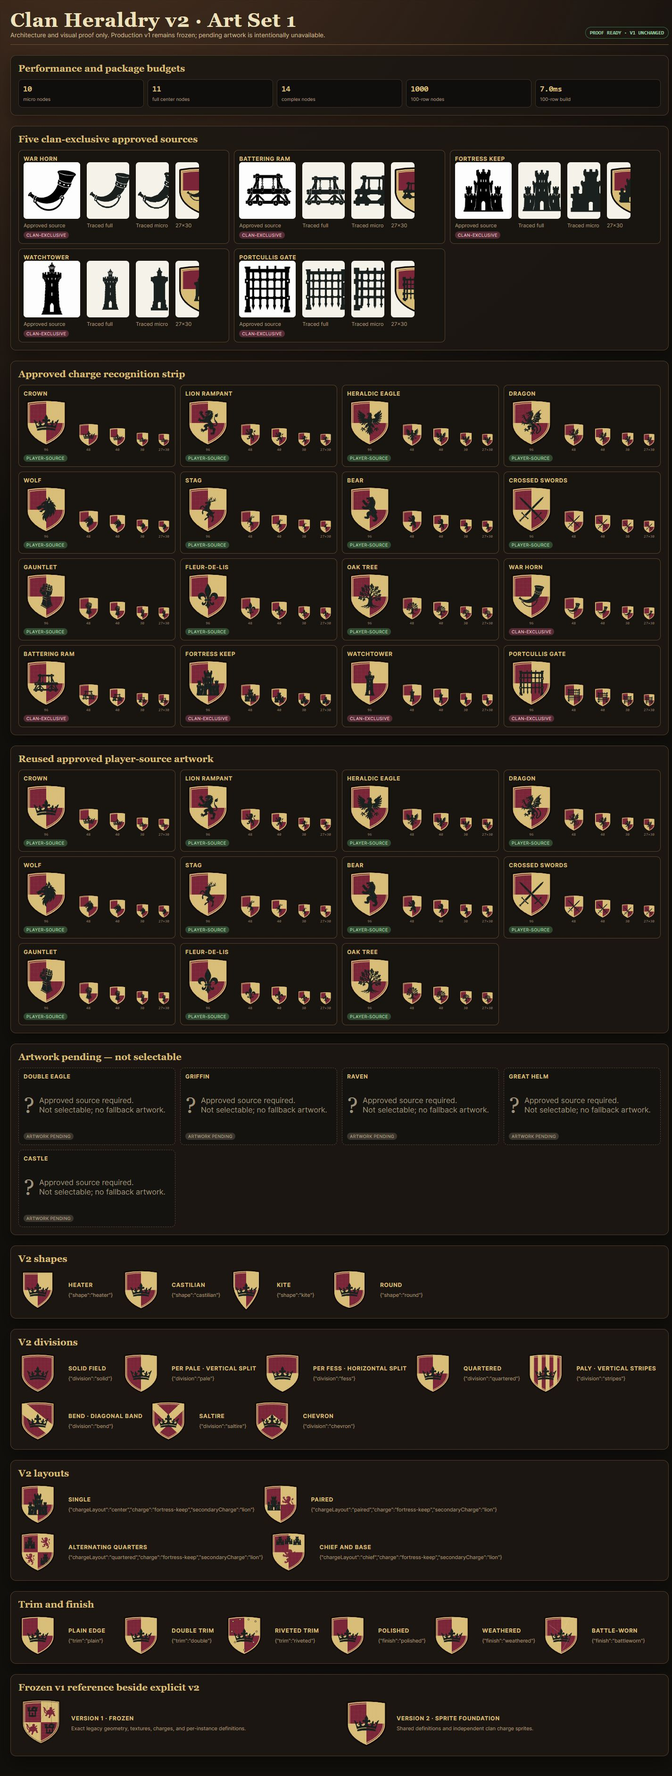
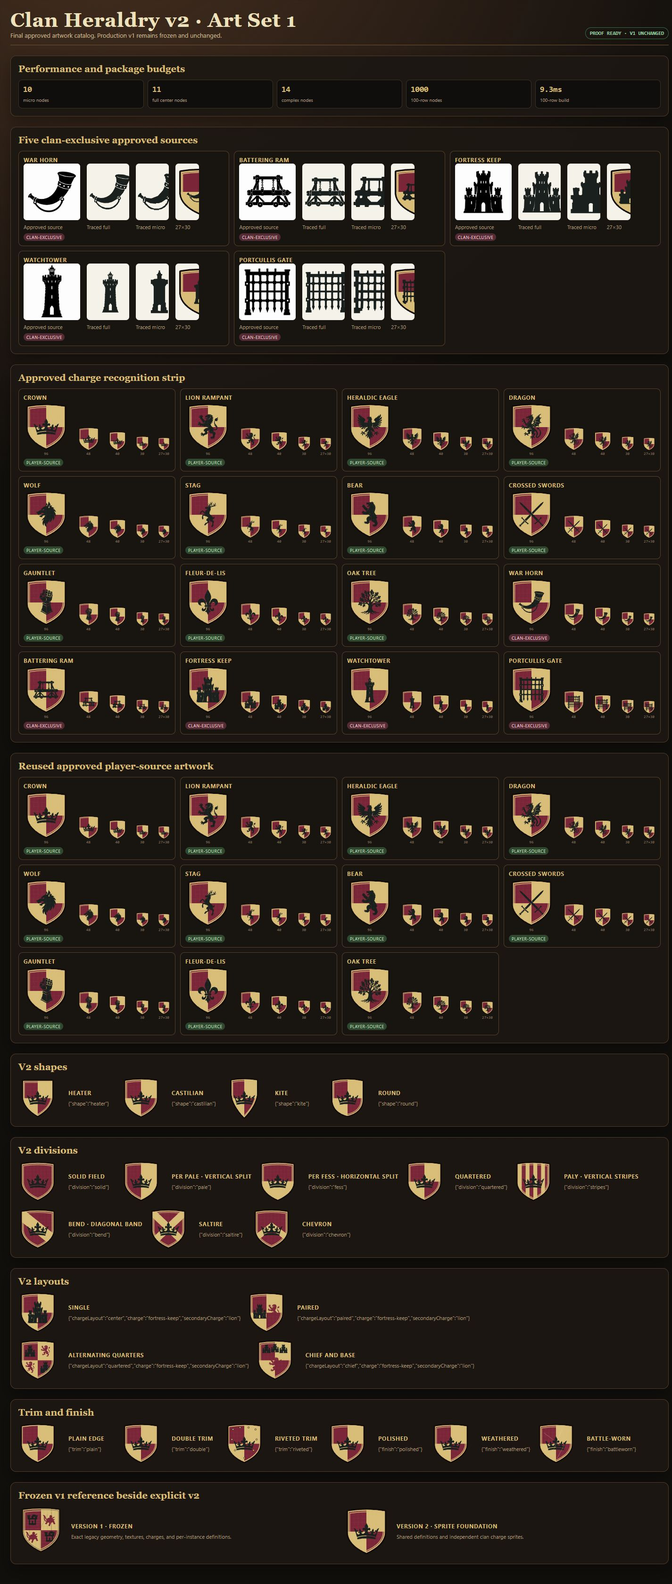
feat: finalize approved clan heraldry catalog

diff --git a/tools/validate-clan-heraldry-v2.js b/tools/validate-clan-heraldry-v2.js
@@ -15,8 +15,14 @@ const legacy = require(path.join(root, "functions", "clanHeraldryLegacyV1.js"));
 const renderer = require(path.join(root, "functions", "clanHeraldryRenderer.js")).create({ config, assets, legacyRenderer: legacy });
 const proof = fs.readFileSync(path.join(root, "docs", "visual-qa", "clan-heraldry-v2", "index.html"), "utf8");
 
+const expectedIds = [
+  "none", "crown", "lion", "eagle", "dragon", "wolf", "stag", "bear",
+  "crossed-swords", "gauntlet", "fleur-de-lis", "oak-tree", "war-horn",
+  "battering-ram", "fortress-keep", "watchtower", "portcullis",
+];
+const removedV2Ids = ["double-eagle", "griffin", "raven", "helm", "castle"];
 const ids = config.CHARGES.map(option => option.key);
-assert.equal(ids.length, 22, "Expected 21 artwork charges plus none.");
+assert.deepEqual(ids, expectedIds, "Expected exactly 16 approved artwork charges plus none.");
 assert.equal(new Set(ids).size, ids.length, "Configured charge IDs must be unique.");
 assert.equal(config.COLORS.length, 16, "Expected the approved 16-color palette.");
 assert.equal(config.SHAPES.length, 4);
@@ -24,22 +30,38 @@ assert.equal(config.DIVISIONS.length, 8);
 assert.equal(config.CHARGE_LAYOUTS.length, 4);
 assert.equal(config.TRIMS.length, 3);
 assert.equal(config.FINISHES.length, 3);
-assert.deepEqual(config.PENDING_CHARGE_KEYS, ["double-eagle", "griffin", "raven", "helm", "castle"]);
+assert.equal(Object.prototype.hasOwnProperty.call(config, "PENDING_CHARGE_KEYS"), false, "Pending catalog metadata must be retired.");
 assert.equal(config.normalizeHeraldryRevision(undefined), 0);
 assert.equal(config.normalizeHeraldryRevision(-1), 0);
 assert.equal(config.normalizeHeraldryRevision(7), 7);
-assert.equal(config.V2_SCHEMA_EXAMPLE.charge, "castle");
-assert.equal(config.normalizeV2ForRead(config.V2_SCHEMA_EXAMPLE).charge, "castle", "Lenient reads must preserve stable pending IDs.");
-assert.equal(config.createV2DraftFromV1({ charge: "castle" }).charge, "none", "Legacy Castle must not be silently remapped to clan-exclusive Fortress Keep.");
+assert.equal(config.V2_SCHEMA_EXAMPLE.charge, "fortress-keep");
+for (const removedId of removedV2Ids) {
+  assert.equal(config.normalizeV2ForRead({ ...config.DEFAULT_V2, charge: removedId }).charge, removedId, `${removedId} must not silently map to another v2 identity on read.`);
+  assert.equal(config.validateV2Write({ ...config.DEFAULT_V2, charge: removedId }).ok, false, `${removedId} must be rejected for v2 writes.`);
+}
+const unresolvedConversion = config.createV2DraftFromV1({ charge: "castle" });
+assert.equal(unresolvedConversion.shield.charge, "none", "Legacy Castle must not be remapped to clan-exclusive Fortress Keep.");
+assert.equal(unresolvedConversion.requiresLeaderSelection, true, "Unsupported legacy charges require deliberate Leader selection.");
+assert.deepEqual(unresolvedConversion.unresolvedFields, ["charge"]);
+for (const [legacyCharge, v2Charge] of Object.entries({ none: "none", lion: "lion", eagle: "eagle", crown: "crown", swords: "crossed-swords", fleur: "fleur-de-lis" })) {
+  const conversion = config.createV2DraftFromV1({ charge: legacyCharge, secondaryCharge: "lion" });
+  assert.equal(conversion.shield.charge, v2Charge);
+  assert.equal(conversion.requiresLeaderSelection, false);
+}
+assert.equal(config.pickRandomV2Charge(() => 0), "crown");
+assert.equal(config.pickRandomV2Charge(() => 0.999999), "portcullis");
+assert.ok(expectedIds.includes(config.pickRandomV2Charge(() => 0, { includeNone: true })));
 
 const manifestIds = manifest.entries.map(entry => entry.id);
 assert.equal(new Set(manifestIds).size, manifestIds.length, "Manifest IDs must be unique.");
 assert.deepEqual(manifestIds, ids.filter(id => id !== "none"), "Manifest/config charge ordering changed.");
+assert.deepEqual(manifest.stableChargeIds, expectedIds, "Manifest stableChargeIds must match the final selectable v2 catalog.");
 const availableIds = manifest.entries.filter(entry => entry.available).map(entry => entry.id);
 assert.deepEqual(availableIds, config.SELECTABLE_CHARGE_KEYS.filter(id => id !== "none"));
-for (const entry of manifest.entries.filter(entry => entry.artworkPending)) {
-  assert.equal(entry.available, false); assert.equal(entry.selectable, false);
-  assert.ok(!entry.sourcePath, `${entry.id} must not receive fallback artwork.`);
+for (const entry of manifest.entries) {
+  assert.equal(entry.available, true, `${entry.id} must have approved artwork.`);
+  assert.equal(entry.selectable, true, `${entry.id} must be selectable.`);
+  assert.equal(Object.prototype.hasOwnProperty.call(entry, "artworkPending"), false, `${entry.id} retains pending metadata.`);
 }
 
 function pngDimensions(bytes) {
@@ -87,6 +109,7 @@ assert.ok(spriteData.micro.raw <= 45 * 1024, `Micro sprite exceeds 45KB: ${sprit
 assert.ok(spriteData.micro.gzip <= 18 * 1024, `Micro sprite exceeds 18KB gzip: ${spriteData.micro.gzip}`);
 
 assert.match(proof, /symbolHref/);
+assert.doesNotMatch(proof, /artwork\s+pending|pending-grid|data-proof-pending/i, "Proof page still exposes pending artwork.");
 for (const id of availableIds) {
   assert.ok(spriteData.full.svg.includes(`id="clan-charge-v1-full-${id}"`));
   assert.ok(spriteData.micro.svg.includes(`id="clan-charge-v1-micro-${id}"`));
@@ -118,8 +141,9 @@ for (const [index, fixture] of fixtures.entries()) {
 
 const strictDefault = config.validateV2Write({ ...config.DEFAULT_V2 });
 assert.equal(strictDefault.ok, true, strictDefault.errors.join(" "));
-assert.equal(config.validateV2Write({ ...config.DEFAULT_V2, charge: "griffin" }).ok, false, "Pending artwork must be rejected for writes.");
-assert.doesNotMatch(renderer.renderMarkup(config.V2_SCHEMA_EXAMPLE, { width: 96 }), /clan-charge-v1-full-castle/, "Pending charges must not emit unresolved sprite references.");
+for (const removedId of removedV2Ids) {
+  assert.doesNotMatch(renderer.renderMarkup({ ...config.DEFAULT_V2, charge: removedId }, { width: 96 }), new RegExp(`clan-charge-v1-full-${removedId}`), "Removed charges must not emit sprite references.");
+}
 assert.equal(config.validateV2Write({ ...config.DEFAULT_V2, surprise: true }).ok, false, "Unknown fields must be rejected.");
 assert.equal(config.validateV2Write({ ...config.DEFAULT_V2, primary: "#123456" }).ok, false, "New off-palette values must be rejected.");
 assert.equal(config.validateV2Write({ ...config.DEFAULT_V2, primary: "#123456" }, { existing: { ...config.DEFAULT_V2, primary: "#123456" } }).ok, true, "Existing off-palette values must remain valid.");
@@ -156,6 +180,6 @@ for (const charge of config.SELECTABLE_CHARGES.filter(option => option.key !== "
   const markup = renderer.renderMarkup({ ...config.DEFAULT_V2, charge: charge.key }, { width: 27 });
   assert.match(markup, new RegExp(`clan-charge-v1-micro-${charge.key}`));
 }
-for (const token of ["exclusive-grid", "charge-grid", "reuse-grid", "pending-grid", "shapes", "divisions", "layouts", "materials", "version-proof"]) assert.ok(proof.includes(token), `Proof section ${token} missing.`);
+for (const token of ["exclusive-grid", "charge-grid", "reuse-grid", "shapes", "divisions", "layouts", "materials", "version-proof"]) assert.ok(proof.includes(token), `Proof section ${token} missing.`);
 
-console.log(JSON.stringify({ charges: availableIds.length, pending: config.PENDING_CHARGE_KEYS.length, spriteBytes: { full: spriteData.full.raw, fullGzip: spriteData.full.gzip, micro: spriteData.micro.raw, microGzip: spriteData.micro.gzip }, nodes: { micro: nodeCount(microMarkup), fullCenter: nodeCount(fullMarkup), fullPaired: nodeCount(pairedMarkup), complex: nodeCount(complexMarkup), leaderboard100: nodeCount(microMarkup) * 100 }, v1Fixtures: fixtures.length }, null, 2));
+console.log(JSON.stringify({ charges: availableIds.length, spriteBytes: { full: spriteData.full.raw, fullGzip: spriteData.full.gzip, micro: spriteData.micro.raw, microGzip: spriteData.micro.gzip }, nodes: { micro: nodeCount(microMarkup), fullCenter: nodeCount(fullMarkup), fullPaired: nodeCount(pairedMarkup), complex: nodeCount(complexMarkup), leaderboard100: nodeCount(microMarkup) * 100 }, v1Fixtures: fixtures.length }, null, 2));

diff --git a/functions/clanHeraldryConfig.js b/functions/clanHeraldryConfig.js
@@ -49,17 +49,12 @@
     charge("crown", "Crown", { provenance: "player-source" }),
     charge("lion", "Lion Rampant", { provenance: "player-source" }),
     charge("eagle", "Heraldic Eagle", { provenance: "player-source" }),
-    charge("double-eagle", "Double Eagle", { artworkPending: true }),
-    charge("griffin", "Griffin", { artworkPending: true }),
     charge("dragon", "Dragon", { provenance: "player-source" }),
     charge("wolf", "Wolf", { provenance: "player-source" }),
     charge("stag", "Stag", { provenance: "player-source" }),
     charge("bear", "Bear", { provenance: "player-source" }),
-    charge("raven", "Raven", { artworkPending: true }),
     charge("crossed-swords", "Crossed Swords", { provenance: "player-source" }),
-    charge("helm", "Great Helm", { artworkPending: true }),
     charge("gauntlet", "Gauntlet", { provenance: "player-source" }),
-    charge("castle", "Castle", { artworkPending: true }),
     charge("fleur-de-lis", "Fleur-de-lis", { provenance: "player-source" }),
     charge("oak-tree", "Oak Tree", { provenance: "player-source" }),
     charge("war-horn", "War Horn", { provenance: "clan-exclusive" }),
@@ -78,7 +73,6 @@
   const CHARGE_KEYS = keys(CHARGES);
   const SELECTABLE_CHARGES = Object.freeze(CHARGES.filter(option => option.selectable));
   const SELECTABLE_CHARGE_KEYS = keys(SELECTABLE_CHARGES);
-  const PENDING_CHARGE_KEYS = Object.freeze(CHARGES.filter(option => option.artworkPending).map(option => option.key));
   const SHAPE_BY_KEY = new Map(SHAPES.map(option => [option.key, option]));
   const CHARGE_BY_KEY = new Map(CHARGES.map(option => [option.key, option]));
 
@@ -98,7 +92,7 @@
   const V2_SCHEMA_EXAMPLE = Object.freeze({
     version: 2, artSetVersion: 1, shape: "castilian", division: "quartered",
     primary: "#7a2638", secondary: "#d8bd78", borderColor: "#d8bd78",
-    charge: "castle", secondaryCharge: "lion", chargeColor: "#19201d",
+    charge: "fortress-keep", secondaryCharge: "lion", chargeColor: "#19201d",
     secondaryChargeColor: "#7a2638", chargeLayout: "center", trim: "double",
     finish: "weathered",
   });
@@ -107,12 +101,10 @@
   function freezeOptions(rows, mapper) { return Object.freeze(rows.map(row => Object.freeze(mapper(row)))); }
   function keys(options) { return Object.freeze(options.map(option => option.key)); }
   function charge(key, label, metadata = {}) {
-    const artworkPending = metadata.artworkPending === true;
-    const available = key === "none" || !artworkPending;
     return Object.freeze({
-      key, label, artworkPending, available,
-      selectable: metadata.selectable !== false && available,
-      provenance: metadata.provenance || "pending",
+      key, label, available: true,
+      selectable: metadata.selectable !== false,
+      provenance: metadata.provenance || "system",
       fullSymbolId: key === "none" ? "" : `clan-charge-v1-full-${key}`,
       microSymbolId: key === "none" ? "" : `clan-charge-v1-micro-${key}`,
     });
@@ -125,6 +117,12 @@
   function normalizeChoice(value, allowed, fallback) {
     const key = String(value || "").trim().toLowerCase();
     return allowed.includes(key) ? key : fallback;
+  }
+  function normalizeChargeForRead(value, fallback) {
+    const key = String(value || "").trim().toLowerCase();
+    if (!key) return fallback;
+    if (CHARGE_KEYS.includes(key)) return key;
+    return /^[a-z0-9-]{1,40}$/.test(key) ? key : fallback;
   }
   function getVersion(value) {
     if (!isRecord(value)) return LEGACY_VERSION;
@@ -157,8 +155,8 @@
   }
   function normalizeV2ForRead(value = null) {
     const source = isRecord(value) ? value : {};
-    const chargeValue = normalizeChoice(source.charge, CHARGE_KEYS, DEFAULT_V2.charge);
-    const secondaryValue = normalizeChoice(source.secondaryCharge, CHARGE_KEYS, DEFAULT_V2.secondaryCharge);
+    const chargeValue = normalizeChargeForRead(source.charge, DEFAULT_V2.charge);
+    const secondaryValue = normalizeChargeForRead(source.secondaryCharge, DEFAULT_V2.secondaryCharge);
     return {
       version: CURRENT_VERSION,
       artSetVersion: normalizeChoice(Number(source.artSetVersion), SUPPORTED_ART_SET_VERSIONS, CURRENT_ART_SET_VERSION),
@@ -208,8 +206,32 @@
   function validateId(field, value, allowed, errors) { if (!allowed.includes(value)) errors.push(`Invalid ${field}.`); }
   function createV2DraftFromV1(value = null, legacyBanner = null) {
     const v1 = normalizeV1(value, legacyBanner);
-    const mapping = { swords: "crossed-swords", fleur: "fleur-de-lis", castle: "none", sun: "none" };
-    return normalizeV2ForRead({ ...v1, version: 2, artSetVersion: 1, charge: mapping[v1.charge] || v1.charge, secondaryCharge: mapping[v1.secondaryCharge] || v1.secondaryCharge });
+    const mapping = Object.freeze({ none: "none", lion: "lion", eagle: "eagle", crown: "crown", swords: "crossed-swords", fleur: "fleur-de-lis" });
+    const unresolvedFields = [];
+    const convert = (field, legacyCharge) => {
+      if (Object.prototype.hasOwnProperty.call(mapping, legacyCharge)) return mapping[legacyCharge];
+      unresolvedFields.push(field);
+      return "none";
+    };
+    const shield = normalizeV2ForRead({
+      ...v1,
+      version: CURRENT_VERSION,
+      artSetVersion: CURRENT_ART_SET_VERSION,
+      charge: convert("charge", v1.charge),
+      secondaryCharge: convert("secondaryCharge", v1.secondaryCharge),
+    });
+    return Object.freeze({
+      shield: Object.freeze(shield),
+      requiresLeaderSelection: unresolvedFields.length > 0,
+      unresolvedFields: Object.freeze(unresolvedFields),
+      legacyCharges: Object.freeze({ charge: v1.charge, secondaryCharge: v1.secondaryCharge }),
+    });
+  }
+  function pickRandomV2Charge(random = Math.random, options = {}) {
+    const pool = options.includeNone === true ? SELECTABLE_CHARGES : SELECTABLE_CHARGES.filter(option => option.key !== "none");
+    const sample = Number(random());
+    const normalized = Number.isFinite(sample) ? Math.min(Math.max(sample, 0), 0.999999999999) : 0;
+    return pool[Math.floor(normalized * pool.length)].key;
   }
   function colorLuminance(value) {
     const color = normalizeHex(value, DEFAULT_V2.primary);
@@ -238,16 +260,16 @@
   }
   function getRenderVariant(width) { return Number(width) < 45 ? "micro" : "full"; }
   function getShape(value) { return SHAPE_BY_KEY.get(value) || SHAPE_BY_KEY.get(DEFAULT_V2.shape); }
-  function getCharge(value) { return CHARGE_BY_KEY.get(value) || CHARGE_BY_KEY.get(DEFAULT_V2.charge); }
+  function getCharge(value) { return CHARGE_BY_KEY.get(value) || null; }
 
   return Object.freeze({
     LEGACY_VERSION, CURRENT_VERSION, CURRENT_ART_SET_VERSION, SUPPORTED_VERSIONS,
     SUPPORTED_ART_SET_VERSIONS, COLORS, COLOR_VALUES, SHAPES, SHAPE_KEYS, DIVISIONS,
     DIVISION_KEYS, CHARGE_LAYOUTS, CHARGE_LAYOUT_KEYS, TRIMS, TRIM_KEYS, FINISHES,
     FINISH_KEYS, CHARGES, CHARGE_KEYS, SELECTABLE_CHARGES, SELECTABLE_CHARGE_KEYS,
-    PENDING_CHARGE_KEYS, DEFAULT_V1, DEFAULT_V2, V2_SCHEMA_EXAMPLE, V2_KEYS, getVersion,
+    DEFAULT_V1, DEFAULT_V2, V2_SCHEMA_EXAMPLE, V2_KEYS, getVersion,
     normalizeHeraldryRevision, normalizeV1, normalizeV2ForRead, normalizeForRead,
-    validateV2Write, createV2DraftFromV1, colorLuminance, getContrastRatio,
+    validateV2Write, createV2DraftFromV1, pickRandomV2Charge, colorLuminance, getContrastRatio,
     getContrastWarnings, getRenderVariant, getShape, getCharge,
   });
 });

diff --git a/docs/visual-qa/clan-heraldry-v2/index.html b/docs/visual-qa/clan-heraldry-v2/index.html
@@ -12,10 +12,10 @@
     h1,h2,h3,p{margin:0}h1{font-family:Georgia,serif;font-size:clamp(24px,3vw,42px);letter-spacing:.02em}h2{font:700 20px Georgia,serif;color:#d8bd78;margin-bottom:12px}h3{font-size:12px;letter-spacing:.06em;text-transform:uppercase;color:#d8bd78}
     .lede{max-width:720px;color:#c8b894;font-size:13px}.status{font:700 11px ui-monospace,monospace;color:#9fd3a9;border:1px solid #356b44;border-radius:999px;padding:5px 9px;white-space:nowrap}
     section{margin-top:22px;border:1px solid #4e3b29;border-radius:12px;background:rgba(28,23,18,.92);padding:16px;box-shadow:0 14px 30px #0005}
-    .grid{display:grid;grid-template-columns:repeat(auto-fit,minmax(285px,1fr));gap:10px}#exclusive-grid{grid-template-columns:repeat(auto-fit,minmax(420px,1fr))}.card{min-width:0;border:1px solid #55402a;border-radius:9px;background:#181511;padding:10px;overflow:hidden}.card.pending{border-style:dashed;color:#9f927c;background:#15130f}
+    .grid{display:grid;grid-template-columns:repeat(auto-fit,minmax(285px,1fr));gap:10px}#exclusive-grid{grid-template-columns:repeat(auto-fit,minmax(420px,1fr))}.card{min-width:0;border:1px solid #55402a;border-radius:9px;background:#181511;padding:10px;overflow:hidden}
     .row{display:flex;align-items:center;gap:10px;min-height:106px}.size-strip{display:flex;align-items:end;justify-content:space-between;gap:7px;height:116px;padding-top:8px}.shield-slot{display:grid;place-items:end center;color:#887b66;font:10px ui-monospace,monospace}.shield-slot>span:first-child{display:block}
     .source-compare{display:grid;grid-template-columns:120px 90px 70px 50px;align-items:center;gap:14px}.source-tile{display:grid;place-items:center;min-height:120px;background:#f5f2e9;border-radius:7px;overflow:hidden}.source-tile img{display:block;width:100%;height:120px;object-fit:contain}.source-tile svg{width:100px;height:100px;color:#19201d}
-    .proof-label{margin-top:7px;font-size:11px;color:#aa9a7c}.badge{display:inline-block;margin-top:6px;padding:2px 6px;border-radius:999px;background:#2f482f;color:#b9deb9;font-size:9px;letter-spacing:.05em;text-transform:uppercase}.badge.exclusive{background:#552b35;color:#f0c5cf}.badge.pending{background:#3b352d;color:#b8ab96}
+    .proof-label{margin-top:7px;font-size:11px;color:#aa9a7c}.badge{display:inline-block;margin-top:6px;padding:2px 6px;border-radius:999px;background:#2f482f;color:#b9deb9;font-size:9px;letter-spacing:.05em;text-transform:uppercase}.badge.exclusive{background:#552b35;color:#f0c5cf}
     .samples{display:flex;align-items:center;flex-wrap:wrap;gap:14px}.sample{display:grid;grid-template-columns:96px 1fr;align-items:center;gap:10px;min-width:205px}.sample .clan-heraldry-v2{width:82px}.legacy-v2{display:grid;grid-template-columns:1fr 1fr;gap:18px}.legacy-v2>div{display:flex;align-items:center;gap:16px}.legacy-v2 .clan-shield{width:96px;height:102px;display:inline-block}.legacy-v2 .clan-shield svg{width:100%;height:100%}
     .metrics{display:grid;grid-template-columns:repeat(5,minmax(100px,1fr));gap:8px}.metric{padding:9px;border-radius:8px;background:#0f0e0c;border:1px solid #3a3024}.metric strong{display:block;font:700 17px ui-monospace,monospace;color:#d8bd78}.metric span{font-size:10px;color:#a99b84}
     @media(max-width:900px) and (orientation:landscape){main{padding:12px}.source-compare{grid-template-columns:96px 70px 56px 40px}.source-tile,.source-tile img{min-height:92px;height:92px}.grid{grid-template-columns:repeat(auto-fit,minmax(275px,1fr))}#exclusive-grid{grid-template-columns:1fr}.metrics{grid-template-columns:repeat(5,1fr)}}
@@ -23,12 +23,11 @@
 </head>
 <body>
 <main>
-  <header><div><h1>Clan Heraldry v2 · Art Set 1</h1><p class="lede">Architecture and visual proof only. Production v1 remains frozen; pending artwork is intentionally unavailable.</p></div><div class="status" id="proof-status">BUILDING PROOF</div></header>
+  <header><div><h1>Clan Heraldry v2 · Art Set 1</h1><p class="lede">Final approved artwork catalog. Production v1 remains frozen and unchanged.</p></div><div class="status" id="proof-status">BUILDING PROOF</div></header>
   <section><h2>Performance and package budgets</h2><div class="metrics" id="metrics"></div></section>
   <section><h2>Five clan-exclusive approved sources</h2><div class="grid" id="exclusive-grid"></div></section>
   <section><h2>Approved charge recognition strip</h2><div class="grid" id="charge-grid"></div></section>
   <section><h2>Reused approved player-source artwork</h2><div class="grid" id="reuse-grid"></div></section>
-  <section><h2>Artwork pending — not selectable</h2><div class="grid" id="pending-grid"></div></section>
   <section><h2>V2 shapes</h2><div class="samples" id="shapes"></div></section>
   <section><h2>V2 divisions</h2><div class="samples" id="divisions"></div></section>
   <section><h2>V2 layouts</h2><div class="samples" id="layouts"></div></section>
@@ -53,7 +52,6 @@
   const chargeCard = option => `<article class="card" data-proof-charge="${option.key}"><h3>${option.label}</h3><div class="size-strip">${[96,48,40,30,27].map(size => `<span class="shield-slot"><span style="width:${size}px;height:${size === 27 ? 30 : Math.round(size*1.06)}px">${shield({ charge: option.key, chargeLayout:"center" }, size, size < 45 ? "micro" : "full")}</span><small>${size === 27 ? "27×30" : size}</small></span>`).join("")}</div><span class="badge ${option.provenance === "clan-exclusive" ? "exclusive" : ""}">${option.provenance}</span></article>`;
   document.querySelector("#charge-grid").innerHTML = config.SELECTABLE_CHARGES.filter(x => x.key !== "none").map(chargeCard).join("");
   document.querySelector("#reuse-grid").innerHTML = config.CHARGES.filter(x => x.provenance === "player-source").map(chargeCard).join("");
-  document.querySelector("#pending-grid").innerHTML = config.CHARGES.filter(x => x.artworkPending).map(option => `<article class="card pending" data-proof-pending="${option.key}"><h3>${option.label}</h3><div class="row"><div aria-hidden="true" style="font:48px Georgia">?</div><p>Approved source required.<br>Not selectable; no fallback artwork.</p></div><span class="badge pending">artwork pending</span></article>`).join("");
   document.querySelector("#exclusive-grid").innerHTML = config.CHARGES.filter(x => x.provenance === "clan-exclusive").map(option => `<article class="card" data-proof-exclusive="${option.key}"><h3>${option.label}</h3><div class="source-compare"><div><div class="source-tile"><img src="../../../assets/clan-heraldry/art-set-v1/source/full/${encodeURIComponent(sourceNames[option.key])}" alt="Approved ${option.label} source"></div><div class="proof-label">Approved source</div></div><div><div class="source-tile">${rawSymbol(option.key,"full")}</div><div class="proof-label">Traced full</div></div><div><div class="source-tile">${rawSymbol(option.key,"micro")}</div><div class="proof-label">Traced micro</div></div><div><div class="source-tile">${shield({ charge:option.key },27,"micro")}</div><div class="proof-label">27×30</div></div></div><span class="badge exclusive">clan-exclusive</span></article>`).join("");
   const sample = (label, changes) => `<article class="sample" data-proof-option="${label}">${shield(changes,82,"full")}<div><h3>${label}</h3><p class="proof-label">${JSON.stringify(changes)}</p></div></article>`;
   document.querySelector("#shapes").innerHTML = config.SHAPES.map(option => sample(option.label,{shape:option.key})).join("");

diff --git a/tools/build-production-client.js b/tools/build-production-client.js
@@ -18,7 +18,7 @@ const rootFiles = [
   "daily-rewards-guide.html",
   "firebase-messaging-sw.js", "firebaseClient.js", "chat-ui.js", "chat.css", "game-rules.html", "game.js", "base-cities.js", "instant-economy-actions.js",
   "guides.html", "home.html", "how-to-play.html", "index.html", "manifest.webmanifest", "objectives-guide.html", "patch-notes.js",
-  "privacy.html", "readability.css", "manuscript-prototype.css", "ui-contrast-correction.css", "profile-theme.css", "crownlands-palette.css", "action-buttons.css", "mobile-viewport.css", "player-flag-editor.css", "interface-theme.css", "release-config.js", "release-manifest.js", "robots.txt",
+  "privacy.html", "readability.css", "manuscript-prototype.css", "ui-contrast-correction.css", "profile-theme.css", "crownlands-palette.css", "action-buttons.css", "mobile-viewport.css", "player-flag-editor.css", "clan-heraldry-v2.css", "interface-theme.css", "release-config.js", "release-manifest.js", "robots.txt",
   "roadmap.css", "roadmap-data.js", "roadmap.html", "roadmap.js",
   "route-worker.js", "scouting-guide.html", "service-worker.js", "site-info.css", "skills-presets-guide.html", "sitemap.xml",
   "styles.css", "support.html", "ui-layout-config.js", "ui-layout-runtime.js",
@@ -47,6 +47,23 @@ fs.mkdirSync(output, { recursive: true });
 rootFiles.forEach(relativePath => copy(relativePath));
 copy("assets/map-editor-data.js");
 copy("assets/flag-symbols/runtime.svg");
+copyDirectoryFiles("assets/clan-heraldry", relativePath => /(?:manifest\.json|charges-(?:full|micro)\.svg)$/i.test(relativePath));
+const productionHeraldryManifestPath = path.join(output, "assets", "clan-heraldry", "art-set-v1", "manifest.json");
+const sourceHeraldryManifest = JSON.parse(fs.readFileSync(productionHeraldryManifestPath, "utf8"));
+const productionHeraldryManifest = {
+  schemaVersion: sourceHeraldryManifest.schemaVersion,
+  artSetVersion: sourceHeraldryManifest.artSetVersion,
+  name: sourceHeraldryManifest.name,
+  stableChargeIds: sourceHeraldryManifest.stableChargeIds,
+  sprites: {
+    full: "assets/clan-heraldry/art-set-v1/charges-full.svg",
+    micro: "assets/clan-heraldry/art-set-v1/charges-micro.svg",
+  },
+  entries: sourceHeraldryManifest.entries.map(({ id, label, available, selectable, provenance }) => ({
+    id, label, available, selectable, provenance,
+  })),
+};
+fs.writeFileSync(productionHeraldryManifestPath, `${JSON.stringify(productionHeraldryManifest, null, 2)}\n`, "utf8");
 copyDirectoryFiles("assets/icons", relativePath => !relativePath.endsWith("crownlands-icon-master.png"));
 copyDirectoryFiles("assets/optimized", relativePath => !relativePath.endsWith("manifest.json"));
 copyDirectoryFiles("promo-screenshots", relativePath => /\.(?:png|jpe?g|webp)$/i.test(relativePath));
@@ -69,6 +86,10 @@ copyDirectoryFiles("audio", relativePath => /\.(?:mp3|ogg)$/i.test(relativePath)
 copy("functions/clanQuestPeriod.js");
 copy("functions/playerFlagConfig.js");
 copy("functions/flagRenderer.js");
+copy("functions/clanHeraldryConfig.js");
+copy("functions/clanHeraldryAssets.js");
+copy("functions/clanHeraldryLegacyV1.js");
+copy("functions/clanHeraldryRenderer.js");
 
 const stamp = spawnSync(process.execPath, [path.join(__dirname, "stamp-deploy-build.js"), "--root", "dist"], {
   cwd: root,

diff --git a/tools/validate-production-artifact.js b/tools/validate-production-artifact.js
@@ -6,10 +6,10 @@ const dist = path.join(root, "dist");
 const ITCH_DOCUMENT_URL = new URL("https://html-classic.itch.zone/html/18910922/index.html");
 const ITCH_DIRECTORY_PATH = new URL(".", ITCH_DOCUMENT_URL).pathname;
 const required = [
-  "index.html", "styles.css", "interface-theme.css", "common-gear-ui.css", "common-gear-ui.js", "ui-contrast-correction.css", "profile-theme.css", "crownlands-palette.css", "action-buttons.css", "mobile-viewport.css", "player-flag-editor.css", "chat.css", "chat-ui.js", "game.js", "base-cities.js", "instant-economy-actions.js", "firebaseClient.js", "animation-manager.js", "release-manifest.js",
+  "index.html", "styles.css", "interface-theme.css", "common-gear-ui.css", "common-gear-ui.js", "ui-contrast-correction.css", "profile-theme.css", "crownlands-palette.css", "action-buttons.css", "mobile-viewport.css", "player-flag-editor.css", "clan-heraldry-v2.css", "chat.css", "chat-ui.js", "game.js", "base-cities.js", "instant-economy-actions.js", "firebaseClient.js", "animation-manager.js", "release-manifest.js",
   "home.html", "world.html", "community.html", "guides.html", "how-to-play.html", "updates.html", "support.html", "privacy.html", "terms.html", "game-rules.html", "sitemap.xml", "robots.txt", "site-info.css", "public-site.js",
   "roadmap.html", "roadmap.css", "roadmap-data.js", "roadmap.js",
-  "assets/map-editor-data.js", "assets/flag-symbols/runtime.svg", "assets/worlds/world_01/map-manifest.json", "audio/manifest.json", "functions/clanQuestPeriod.js", "functions/playerFlagConfig.js", "functions/flagRenderer.js",
+  "assets/map-editor-data.js", "assets/flag-symbols/runtime.svg", "assets/clan-heraldry/art-set-v1/manifest.json", "assets/clan-heraldry/art-set-v1/charges-full.svg", "assets/clan-heraldry/art-set-v1/charges-micro.svg", "assets/worlds/world_01/map-manifest.json", "audio/manifest.json", "functions/clanQuestPeriod.js", "functions/playerFlagConfig.js", "functions/flagRenderer.js", "functions/clanHeraldryConfig.js", "functions/clanHeraldryAssets.js", "functions/clanHeraldryLegacyV1.js", "functions/clanHeraldryRenderer.js",
   "artifact-manifest.json",
 ];
 const forbidden = [
@@ -23,6 +23,21 @@ for (const relativePath of required) {
 }
 for (const relativePath of forbidden) {
   if (fs.existsSync(path.join(dist, relativePath))) throw new Error(`Production artifact includes forbidden source data ${relativePath}.`);
+}
+
+const heraldryManifest = JSON.parse(fs.readFileSync(
+  path.join(dist, "assets", "clan-heraldry", "art-set-v1", "manifest.json"),
+  "utf8",
+));
+const expectedHeraldryCharges = [
+  "none", "crown", "lion", "eagle", "dragon", "wolf", "stag", "bear", "crossed-swords",
+  "gauntlet", "fleur-de-lis", "oak-tree", "war-horn", "battering-ram", "fortress-keep", "watchtower", "portcullis",
+];
+if (JSON.stringify(heraldryManifest.stableChargeIds) !== JSON.stringify(expectedHeraldryCharges)) {
+  throw new Error("Production clan heraldry manifest must contain the final 16-charge catalog plus none.");
+}
+if (JSON.stringify(heraldryManifest).includes("artworkPending")) {
+  throw new Error("Production clan heraldry manifest must not contain pending artwork state.");
 }
 
 const productionMapManifest = JSON.parse(fs.readFileSync(

diff --git a/tools/generate-release-manifest.js b/tools/generate-release-manifest.js
@@ -70,7 +70,9 @@ function createManifest() {
     "index.html", "styles.css", "interface-theme.css", "common-gear-ui.css", "manuscript-prototype.css", "ui-contrast-correction.css", "profile-theme.css", "crownlands-palette.css", "action-buttons.css", "mobile-viewport.css", "chat.css", "chat-ui.js", "game.js", "base-cities.js", "common-gear.js", "common-gear-ui.js", "instant-economy-actions.js", "firebaseClient.js", "animation-manager.js", "audio-manager.js",
     "service-worker.js", "firebase-messaging-sw.js", "manifest.webmanifest",
     "release-config.js", "economy-config.js", "world-config.js", "ui-layout-config.js",
-    "ui-layout-runtime.js", "ads-config.js", "assets/map-editor-data.js",
+    "ui-layout-runtime.js", "ads-config.js", "assets/map-editor-data.js", "clan-heraldry-v2.css",
+    "functions/clanHeraldryConfig.js", "functions/clanHeraldryAssets.js", "functions/clanHeraldryLegacyV1.js", "functions/clanHeraldryRenderer.js",
+    "assets/clan-heraldry/art-set-v1/manifest.json", "assets/clan-heraldry/art-set-v1/charges-full.svg", "assets/clan-heraldry/art-set-v1/charges-micro.svg",
   ].map(relativePath => path.join(root, relativePath));
 
   const indexSource = fs.readFileSync(path.join(root, "functions", "index.js"), "utf8");
